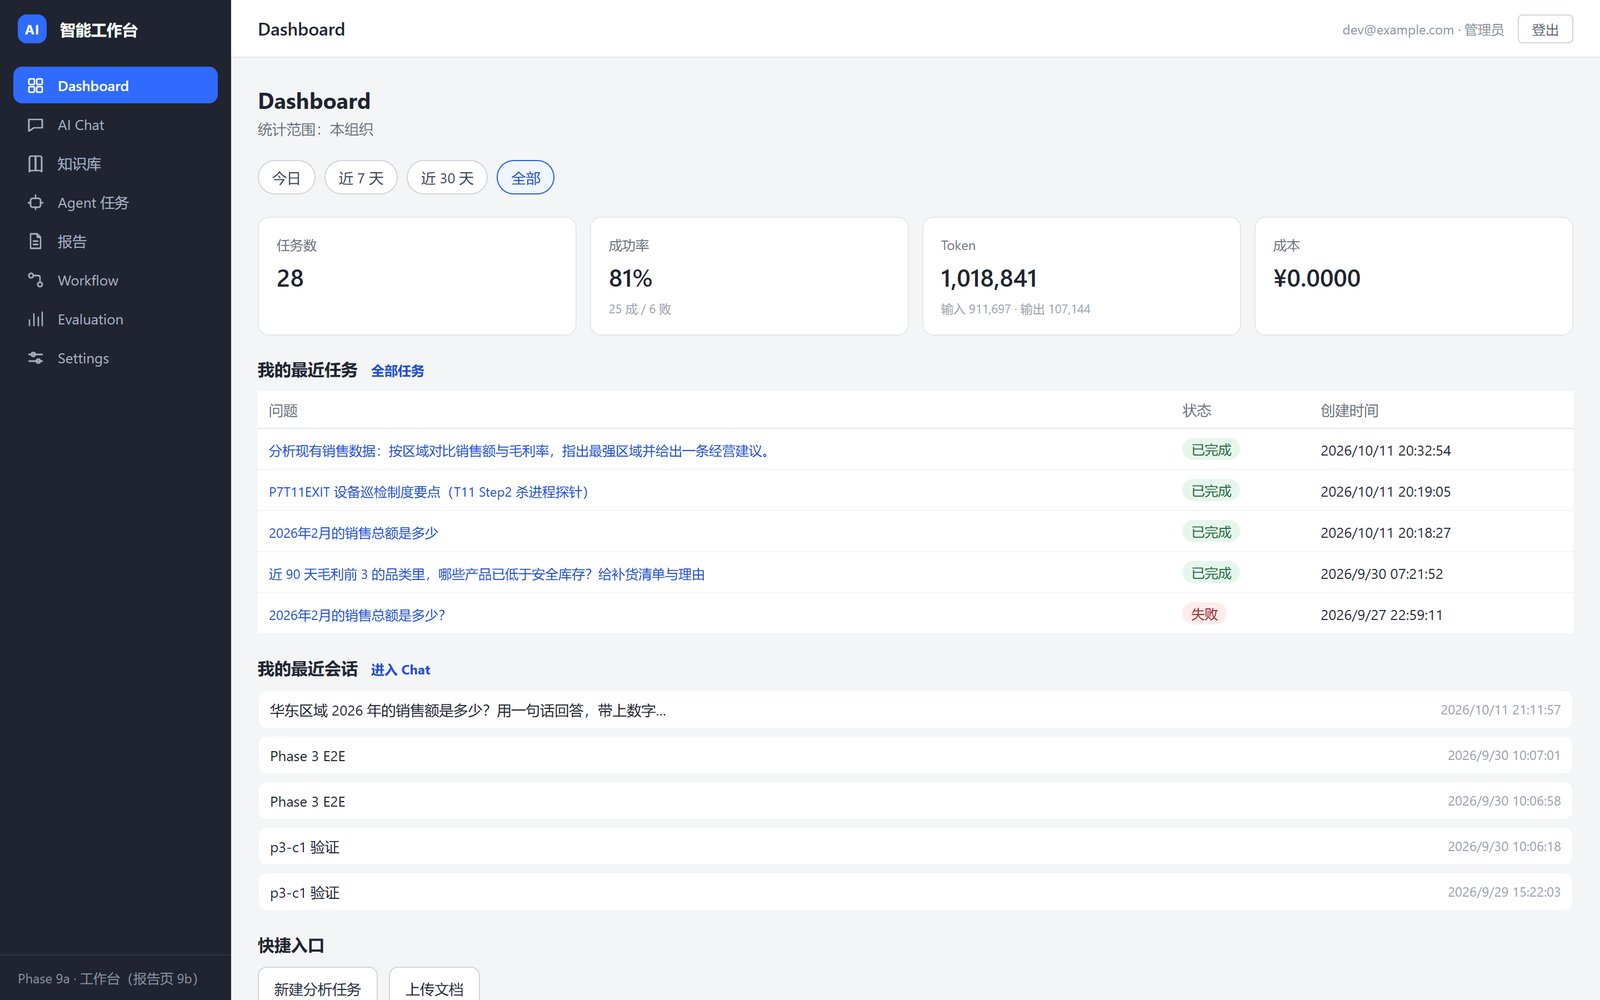
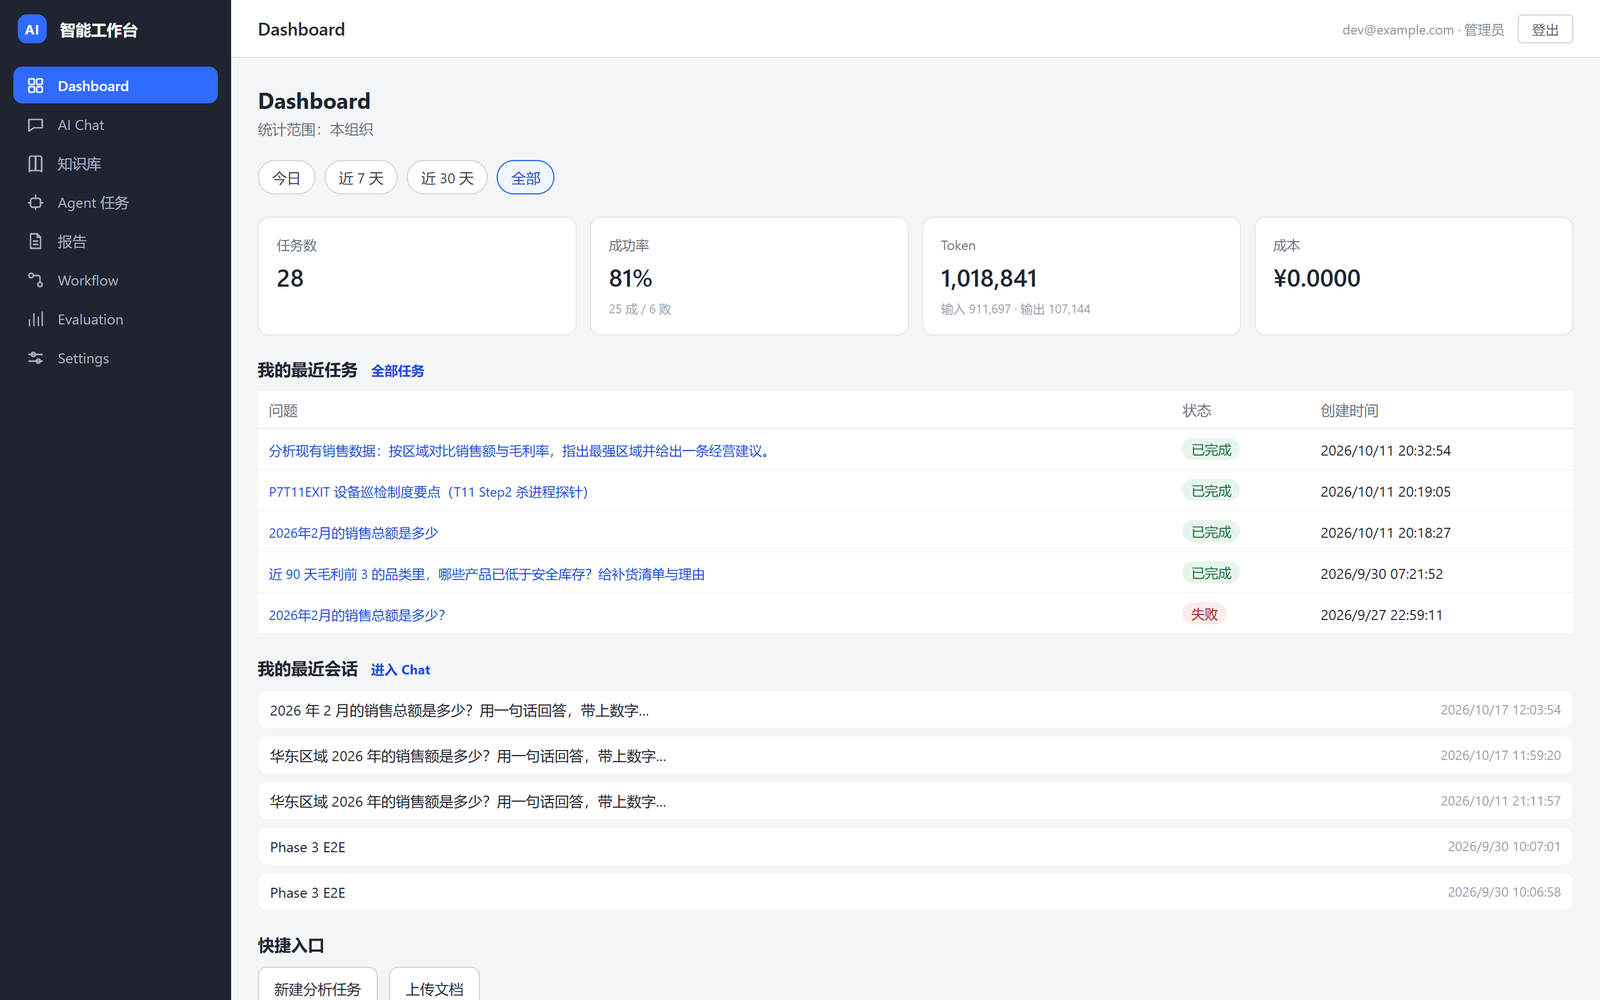
fix(ui): 移除侧边栏开发期标记 Phase 9a；docs: 重截 README 截图

diff --git a/frontend/src/components/Sidebar.tsx b/frontend/src/components/Sidebar.tsx
@@ -73,8 +73,6 @@ export default function Sidebar() {
           ),
         )}
       </nav>
-
-      <div className={styles.footer}>Phase 9a · 工作台（报告页 9b）</div>
     </aside>
   );
 }
